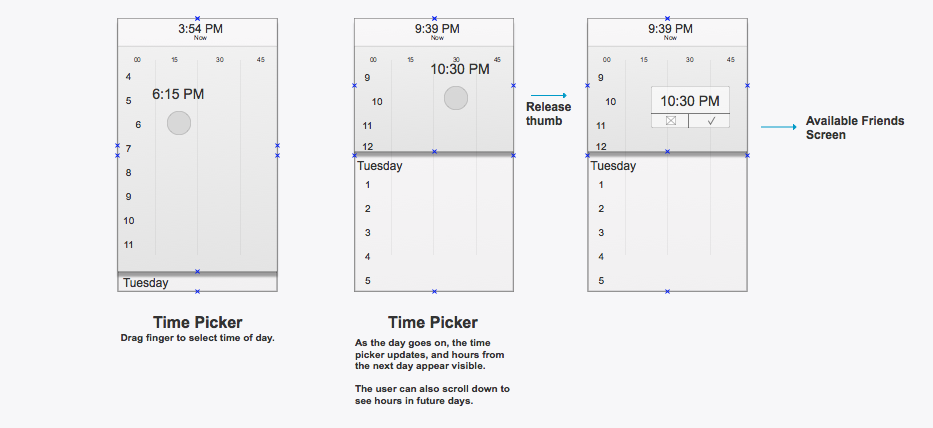
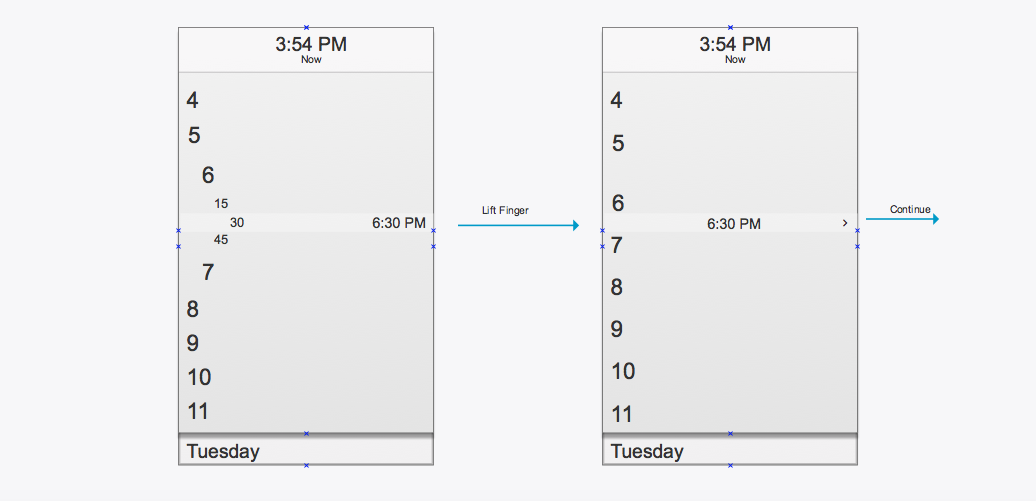
update

diff --git a/projects-downtyme.html b/projects-downtyme.html
@@ -119,10 +119,12 @@ You can download our beta on <a href="https://play.google.com/store/apps/details
     </div>
     <div class="project_text">
    <a href="assets_old/img/sketch.jpeg" rel="shadowbox"><img src="assets_old/img/sketch.jpeg" class="centersmall" /></a> 
-    <p>I'm currently redesigning Downtyme to focus on a sleek, intuitive and easy to use interface. We want to make it as easy as possible to connect with friends. Here's a peek at our time picker concept:</p>
+    <p>I'm currently redesigning Downtyme to focus on a sleek, intuitive and easy to use interface. We want to make it as easy as possible to connect with friends. I am working on a new timepicker:</p>
     </div>
     <div class="project_text">
     <a href="assets_old/img/timepicker.png" rel="shadowbox"><img src="assets_old/img/timepicker.png" class="center" style="border:0px; " /></a>
+    <p>And messages side panel:</p>    
+        <a href="assets_old/img/messages.png" rel="shadowbox"><img src="assets_old/img/messages.png" class="center" style="border:0px; " /></a>
    
         <p>Recently, we were featured in Business Insider's <a href="http://www.businessinsider.com/21-tech-products-that-teens-love-2014-10?op=1" target="_blank">21 Tech Products That Teens Love</a>, alongside other popular apps such as Spotify, Instagram, Yik Yak and Timehop. We were also featured in Gizmodo's <a href="http://www.gizmodo.co.uk/2014/04/the-weeks-best-android-iphone-ipad-and-windows-phone-apps-33/?utm_content=buffer16fcc&amp;utm_medium=social&amp;utm_source=twitter.com&amp;utm_campaign=buffer" target="_blank">The Week's Best Android, iPhone, iPad and Windows Phone Apps</a>, among other articles (see below). </p>
     </div>
